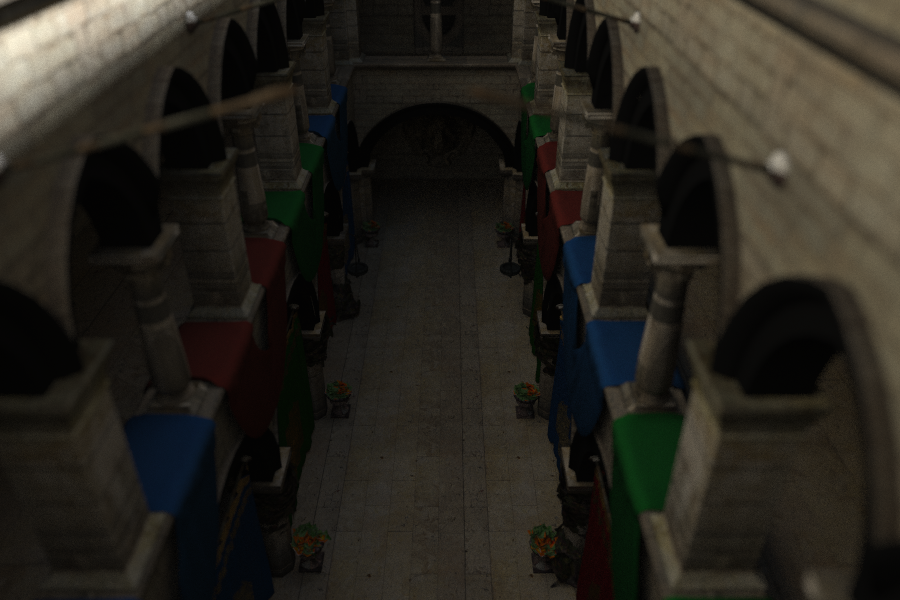
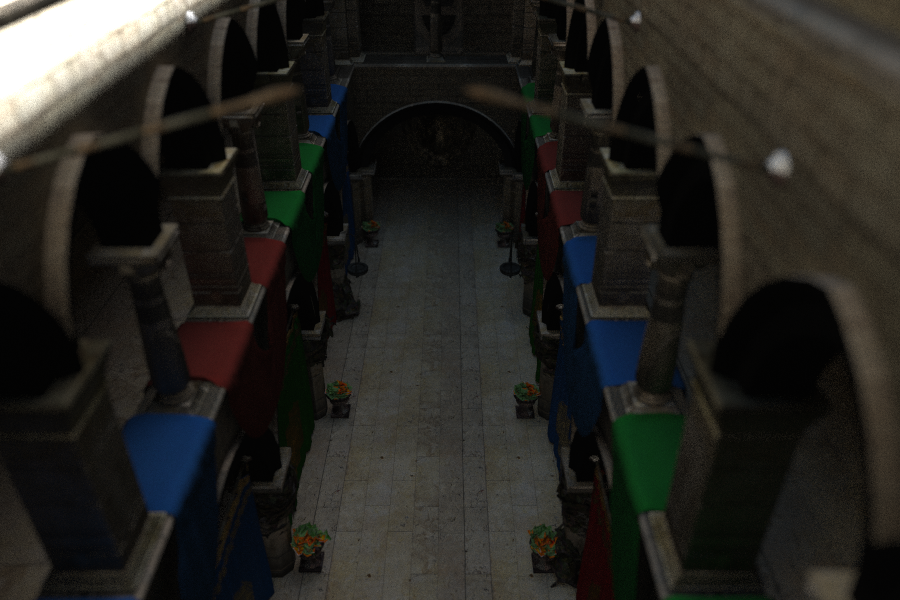
Minor fix, adding boost.

diff --git a/PathTracer.cpp b/PathTracer.cpp
@@ -372,9 +372,9 @@ void Image::to_host_raw(void *hdata) const
 	m_data->download(hdata);
 }
 
-void h_raw_to_srgb(const float* raw, unsigned char* srgb, size_t num_pixels);
+void h_raw_to_srgb(const float* raw, unsigned char* srgb, size_t num_pixels, float boost);
 
-void Image::to_host_srgb(void* hdata) const
+void Image::to_host_srgb(void* hdata, float boost) const
 {
 	unsigned char* d_srgb;
 	unsigned count = unsigned(m_width*m_height);
@@ -401,7 +401,7 @@ void Image::to_host_srgb(void* hdata) const
 
 		float* d_raw;
 		cudaExternalMemoryGetMappedBuffer((void**)&d_raw, cudaExtMemVertexBuffer, &cudaExtBufferDesc);
-		h_raw_to_srgb(d_raw, d_srgb, count);
+		h_raw_to_srgb(d_raw, d_srgb, count, boost);
 		cudaDestroyExternalMemory(cudaExtMemVertexBuffer);
 	}
 

diff --git a/PathTracer.h b/PathTracer.h
@@ -151,7 +151,7 @@ public:
 	void to_host_raw(void *hdata) const;
 
 	// u8_vec3 - srgb
-	void to_host_srgb(void* hdata) const;
+	void to_host_srgb(void* hdata, float boost = 1.0f) const;
 
 
 
